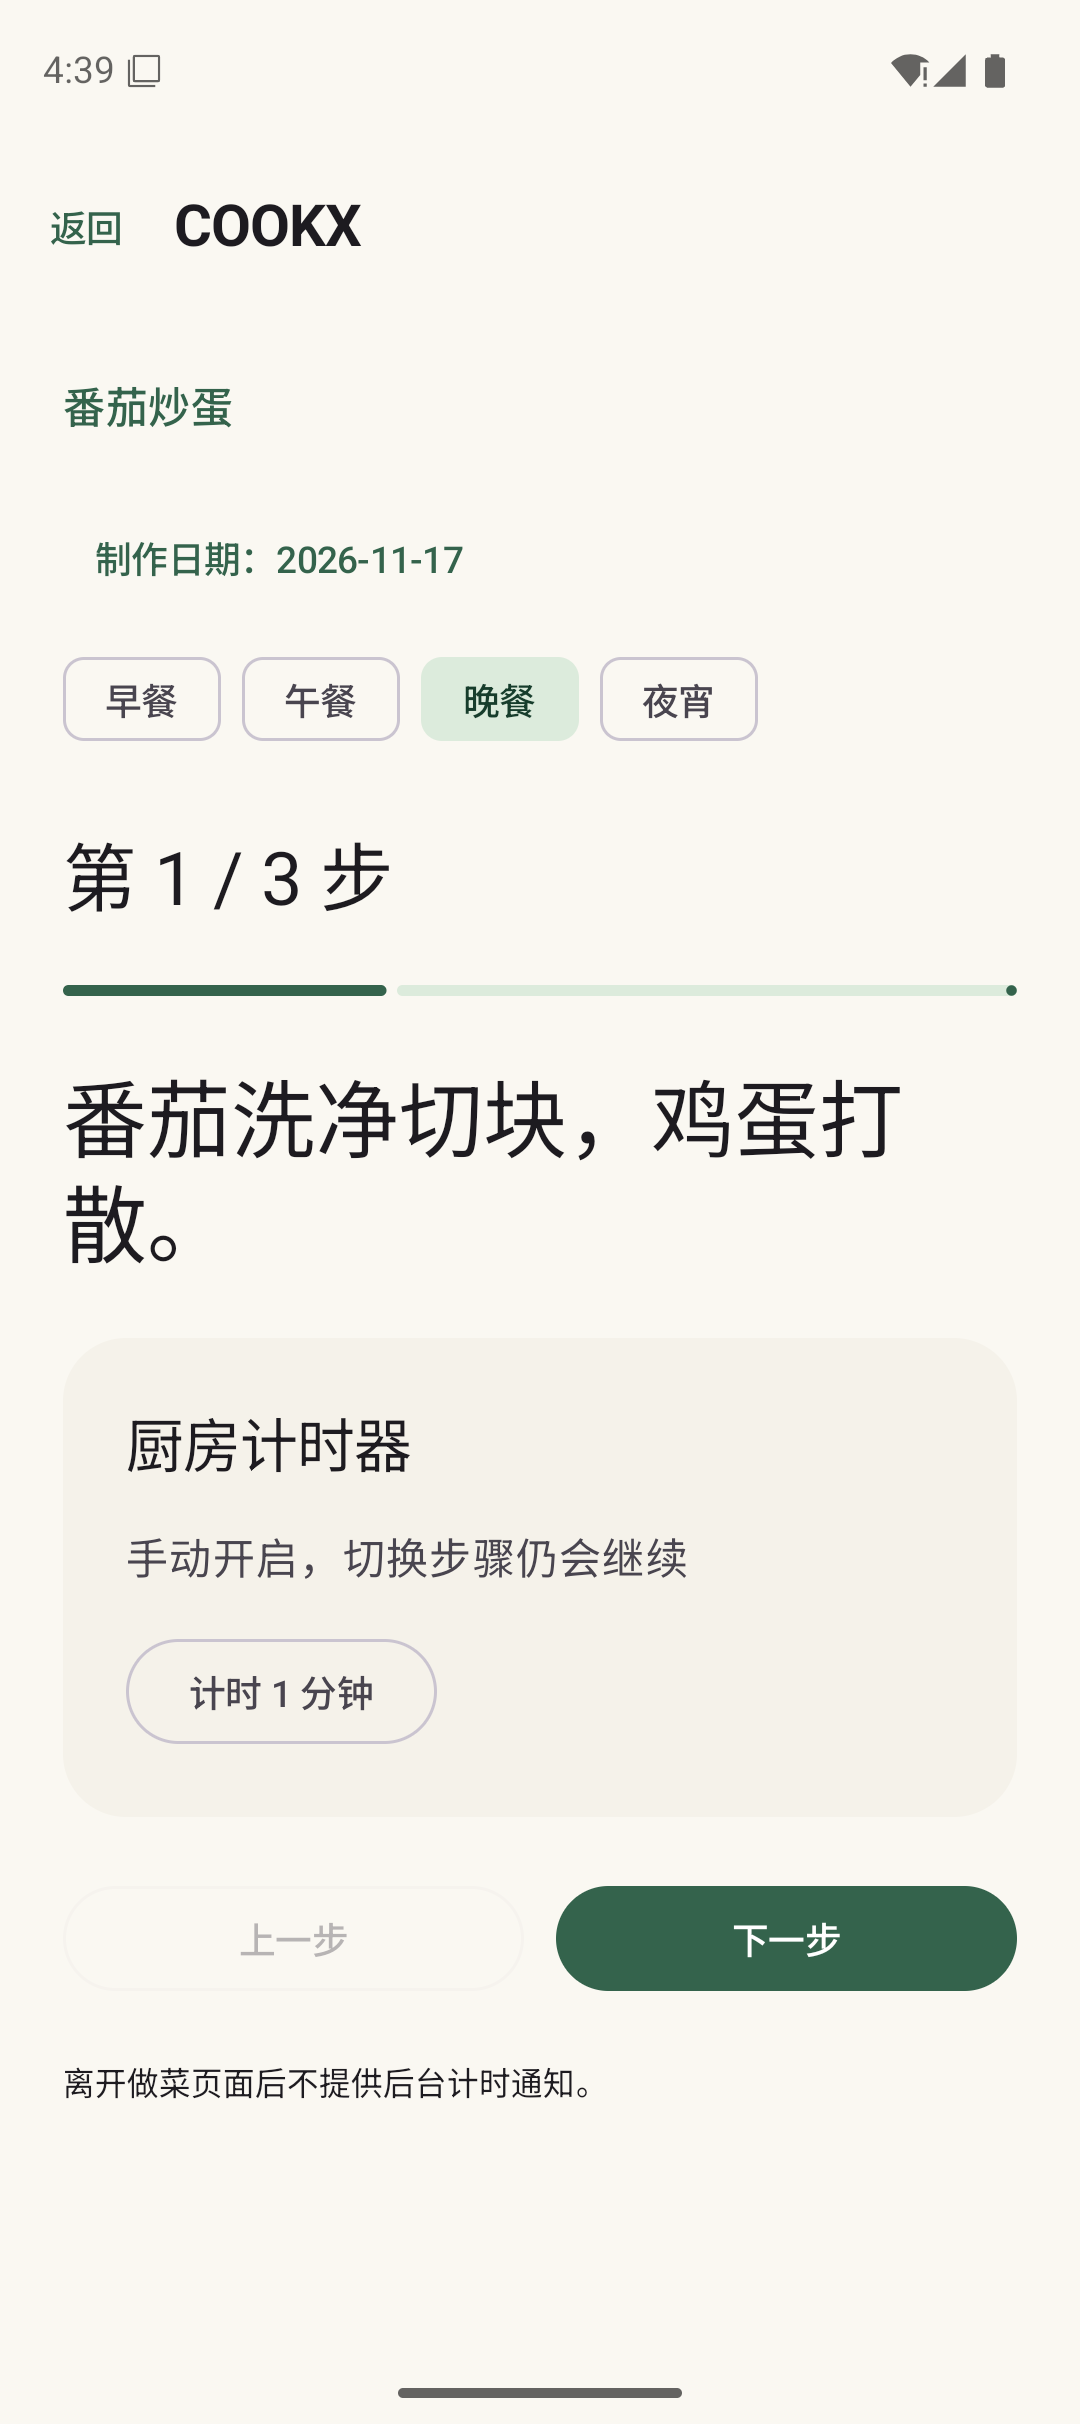
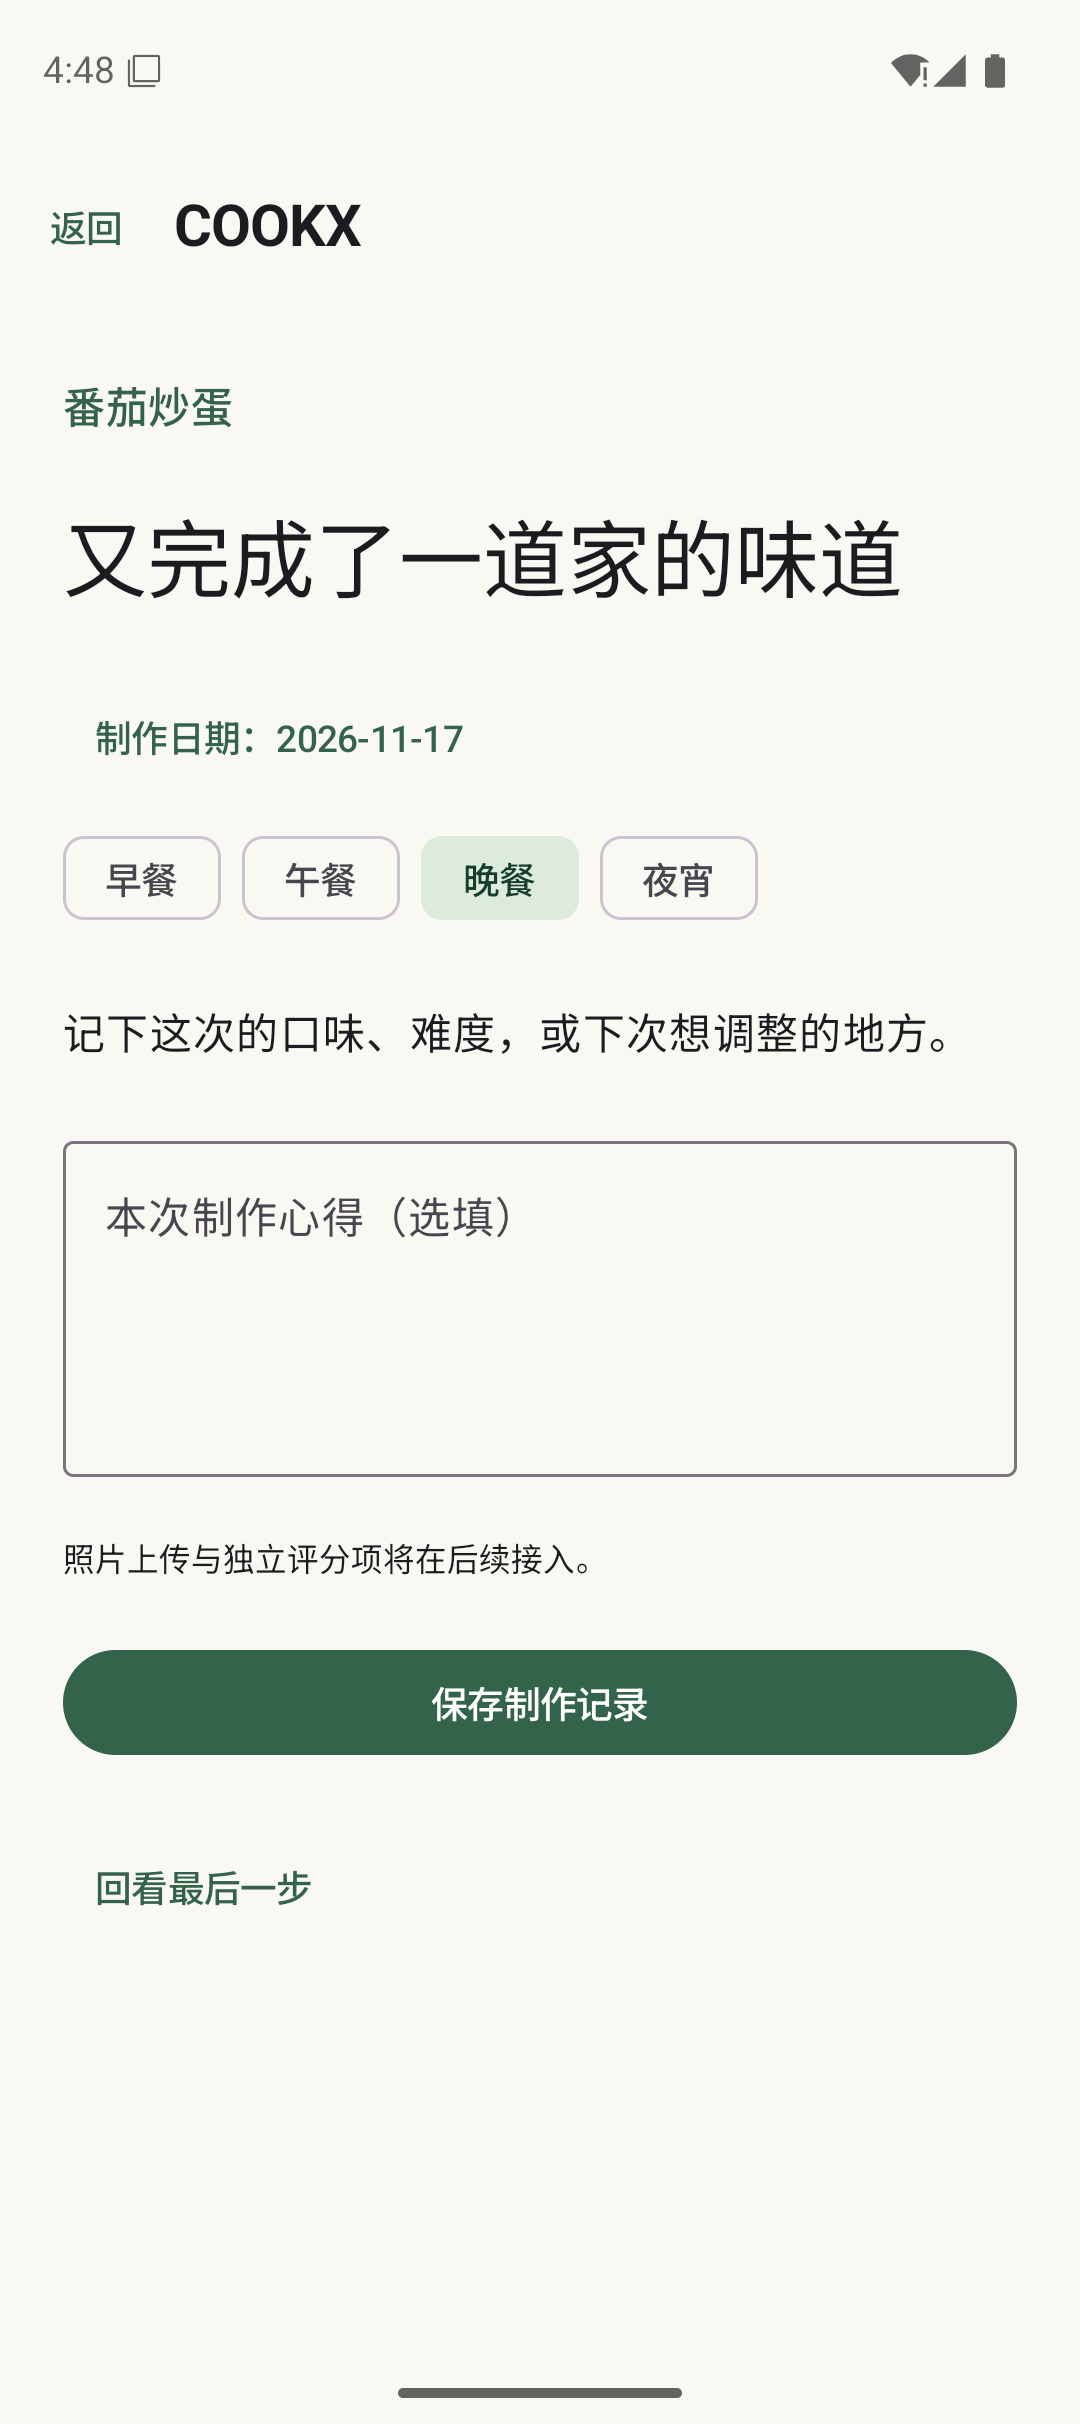
fix: show cooking date and meal controls only after completion

diff --git a/app/src/androidTest/kotlin/com/cookx/app/TagsAndMealsUiTest.kt b/app/src/androidTest/kotlin/com/cookx/app/TagsAndMealsUiTest.kt
@@ -55,19 +55,28 @@ class TagsAndMealsUiTest {
                 CookingScreen(recipe, Cook(recipe.id, "2026-11-16", Meal.DINNER), false) { _, selection -> saved = selection }
             } }
         }
-        compose.onNodeWithTag("meal:DINNER").assertIsSelected()
-        compose.onNodeWithTag("meal:BREAKFAST").performClick()
+        compose.onNodeWithTag("cookingDate").assertDoesNotExist()
+        compose.onNodeWithTag("meal:DINNER").assertDoesNotExist()
         compose.onNodeWithText("下一步").performScrollTo().performClick()
         restore.emulateSavedInstanceStateRestore()
         compose.onNodeWithText("第 2 / 3 步").assertExists()
-        compose.onNodeWithTag("meal:BREAKFAST").assertIsSelected()
+        compose.onNodeWithTag("cookingDate").assertDoesNotExist()
+        compose.onNodeWithText("下一步").performScrollTo().performClick()
+        compose.onNodeWithText("完成步骤").performScrollTo().performClick()
         compose.onNodeWithText("制作日期：2026-11-16").assertExists()
+        compose.onNodeWithTag("meal:DINNER").assertIsSelected()
+        compose.onNodeWithTag("meal:BREAKFAST").performScrollTo().performClick()
         compose.onNodeWithTag("cookingDate").performScrollTo().performClick()
         compose.onNodeWithText("Tuesday, November 17, 2026", substring = true, useUnmergedTree = true).performClick()
         compose.onNodeWithText("确定日期").performClick()
+        restore.emulateSavedInstanceStateRestore()
         compose.onNodeWithText("制作日期：2026-11-17").assertExists()
-        compose.onNodeWithText("下一步").performScrollTo().performClick()
+        compose.onNodeWithTag("meal:BREAKFAST").assertIsSelected()
+        compose.onNodeWithText("回看最后一步").performScrollTo().performClick()
+        compose.onNodeWithTag("cookingDate").assertDoesNotExist()
+        compose.onNodeWithTag("meal:BREAKFAST").assertDoesNotExist()
         compose.onNodeWithText("完成步骤").performScrollTo().performClick()
+        compose.onNodeWithText("制作日期：2026-11-17").assertExists()
         compose.onNodeWithText("保存制作记录").performScrollTo().performClick()
         assertEquals(MealSelection("2026-11-17", Meal.BREAKFAST), saved)
     }

diff --git a/app/src/main/kotlin/com/cookx/app/ui/CookxApp.kt b/app/src/main/kotlin/com/cookx/app/ui/CookxApp.kt
@@ -248,7 +248,6 @@ import kotlinx.serialization.Serializable
     }
     Column(Modifier.fillMaxSize().verticalScroll(scroll).padding(24.dp), verticalArrangement = Arrangement.spacedBy(22.dp)) {
         Text(recipe.name, style = MaterialTheme.typography.titleMedium, color = MaterialTheme.colorScheme.primary)
-        MealControls(cookingDate, Meal.valueOf(mealName), { cookingDate = it }, { mealName = it.name })
         if (step < recipe.steps.size) {
             Text("第 ${step + 1} / ${recipe.steps.size} 步", style = MaterialTheme.typography.headlineMedium)
             LinearProgressIndicator(progress = { (step + 1f) / recipe.steps.size }, modifier = Modifier.fillMaxWidth())
@@ -270,6 +269,7 @@ import kotlinx.serialization.Serializable
             Text("离开做菜页面后不提供后台计时通知。", style = MaterialTheme.typography.bodySmall)
         } else {
             Text("又完成了一道家的味道", style = MaterialTheme.typography.headlineLarge)
+            MealControls(cookingDate, Meal.valueOf(mealName), { cookingDate = it }, { mealName = it.name })
             Text("记下这次的口味、难度，或下次想调整的地方。")
             OutlinedTextField(note, { note = it }, label = { Text("本次制作心得（选填）") }, minLines = 4, modifier = Modifier.fillMaxWidth())
             Text("照片上传与独立评分项将在后续接入。", style = MaterialTheme.typography.bodySmall)

diff --git a/README.md b/README.md
@@ -136,7 +136,7 @@ android skills list --agent=codex --project=.
 - 首页右上角“标签管理”：创建家庭自定义标签、勾选常用标签、上移/下移排序；首页固定保留“全部”和“未打标签”。首页菜品条目仍只显示图片和名称。
 - 新增菜谱可多选标签；已有菜谱在详情中点“编辑标签”。同一道菜可出现在多个标签列表。取消常用标签只隐藏入口，不删除菜谱标签。
 - 点击“开始制作”时，以设备本地日期和小时预选：05:00–10:00 早餐、10:00–15:00 午餐、15:00–21:00 晚餐，其余为夜宵（起点含、终点不含）。凌晨默认当天，可手动改为前一天。
-- 制作日期可点开日历调整，餐次可点击切换；切换步骤、跨时段、页面重建或完成制作时不自动覆盖已选值。
+- 制作完成后的记录页才展示日期和餐次设置：日期可点开日历调整，餐次可点击切换；切换步骤、跨时段、页面重建或完成制作时不自动覆盖已选值。
 - 详情与记录展示“日期 · 餐次”，不再显示精确时分。按所选日期、早餐/午餐/晚餐/夜宵顺序及保存时间排序。
 - 本地状态升级至 schema 2，升级前在同一私有存储中保留 `state_backup_before_tags_meals` 原始 JSON。旧分类迁为标签，旧记录餐次由历史时间推定并明确标注；重复读取不重复迁移。
 - 标签重命名、删除、组合筛选、历史补记独立入口尚未实现。
